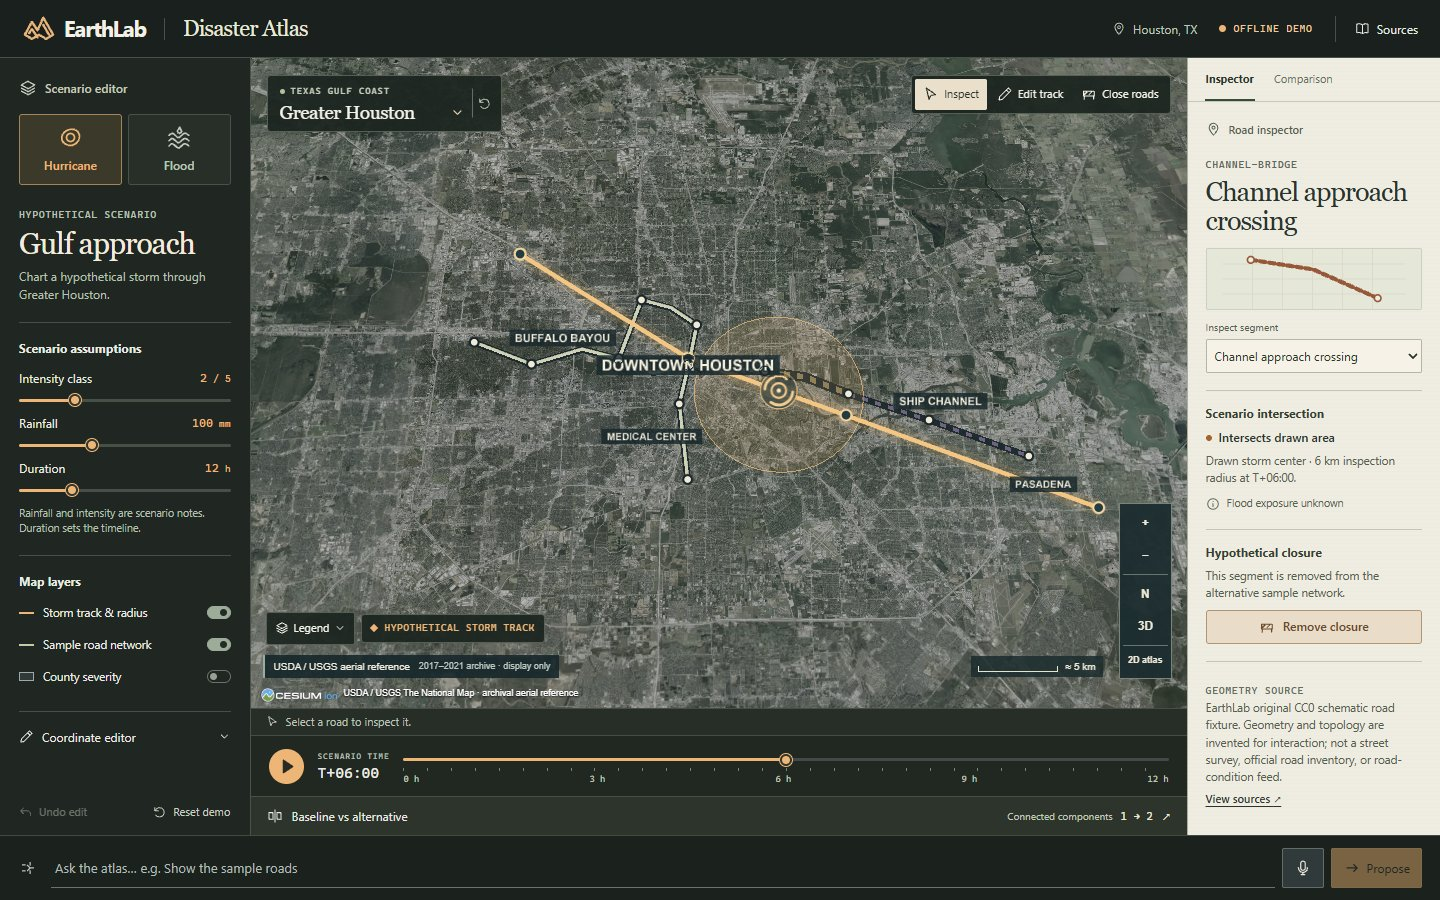
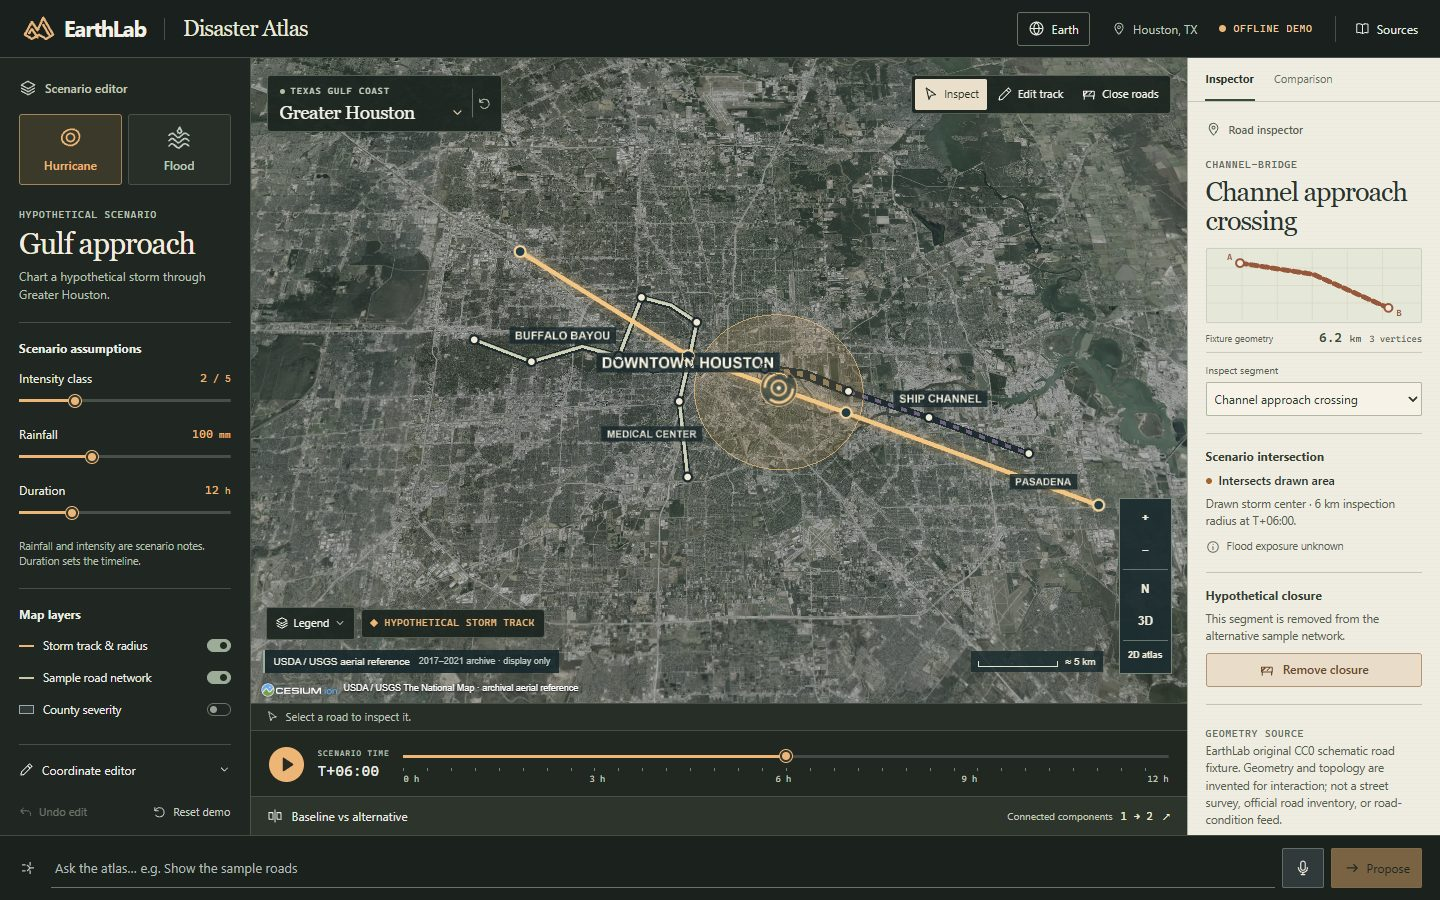
Keep mobile globe controls clear of credits and record reviewed layouts

diff --git a/apps/web/src/features/earth/earth.css b/apps/web/src/features/earth/earth.css
@@ -306,8 +306,9 @@
     display: none;
   }
   .earth-controls {
+    top: 8px;
     right: 8px;
-    bottom: calc(var(--zones-height) + 8px);
+    bottom: auto;
     grid-auto-flow: column;
   }
   .earth-controls button {
@@ -327,11 +328,9 @@
   }
   .zone-open .earth-controls {
     right: 8px;
-    bottom: calc(62% + 8px);
   }
   .earth-stage .cesium-viewer-bottom {
     max-width: calc(100% - 12px);
-    bottom: 62px;
     left: 6px;
   }
 }

diff --git a/apps/web/README.md b/apps/web/README.md
@@ -32,6 +32,7 @@ The shared package supplies scenario, prediction, model metadata, network compar
 | Flood and closures | [Footprint and legend, 1280 × 720](docs/qa/flood-1280.jpg) · [Comparison](docs/qa/closures-comparison-1280.jpg) | [Scenario controls](docs/qa/editor-tablet-768.jpg) · [Road inspector](docs/qa/inspector-tablet-768.jpg) |
 | Context            | [County fixture](docs/qa/county-context-1280.jpg) · [Sources](docs/qa/sources-1440.jpg)                         |                                                                                                         |
 
+[Phone atlas, 390 × 844](docs/qa/houston-phone-390.jpg) · [Earth study-zone index](docs/qa/earth-index-1440.jpg) · [Downtown and Buffalo Bayou zone](docs/qa/zone-1440.jpg)
 
 The [imagery manifest](public/map/provenance.json) lists the provider, service-reported acquisition period, bounds and byte sizes for each aerial reference. Houston opens with bundled aerial imagery. Earth opens with bundled Natural Earth imagery. Closer Houston views can load online USGS detail. To use an additional licensed XYZ template in the atlas, set `VITE_ATLAS_IMAGERY_URL` and `VITE_ATLAS_IMAGERY_CREDIT`. The bundled images remain available if that provider fails.
 
@@ -43,7 +44,6 @@ Run `pnpm typecheck`, `pnpm test` and `pnpm build` from the repository root. The
 
 The browser checks cover pointer placement and dragging in 3D and forced WebGL fallback, timeline playback, keyboard editing, road selection beneath a flood footprint, closure comparisons and reset. Command tests exercise confirmation, unsupported actions, stale responses and replay. Backend graph tests verify catalog edge IDs and reject comparisons from a different source. Successful provider responses in the two test-backend screenshots are controlled test inputs.
 
-Viewport reviews covered 1440 × 900, 1280 × 720 and 768 × 1024. The first refinement moved the legend away from attribution and removed overlapping map labels. The second condensed the short-desktop controls and kept map and drawer scroll positions independent.
+Viewport reviews covered 390 × 844, 720 × 450, 768 × 1024, 1280 × 720 and 1440 × 900. The phone has dedicated touch targets for the map tools and drawers. Keyboard users can skip directly to the atlas or the Earth index, open a zone, and return focus to its entry.
 
-
-On November 21, 2026, type checking, the production build, shared contract checks and the OpenAPI check passed. The suite passed 54 frontend tests and 53 Python tests. Chrome passed 11 interaction groups in 3D and forced WebGL fallback, the flood-picking regression, and nine command/network checks. The built application also passed with all API and external imagery requests blocked. Vite reports a size warning for the lazy Cesium bundle.
+On November 21, 2026, type checking, the production build, shared contract checks and the OpenAPI check passed. The suite passed 62 frontend tests and 53 Python tests. Chrome passed 11 scenario interaction groups in 3D and forced WebGL fallback, the flood-picking regression, and nine command/network checks. The built application also passed navigation and scenario checks with API and external imagery requests blocked. Vite reports a size warning for the lazy Cesium bundle.
